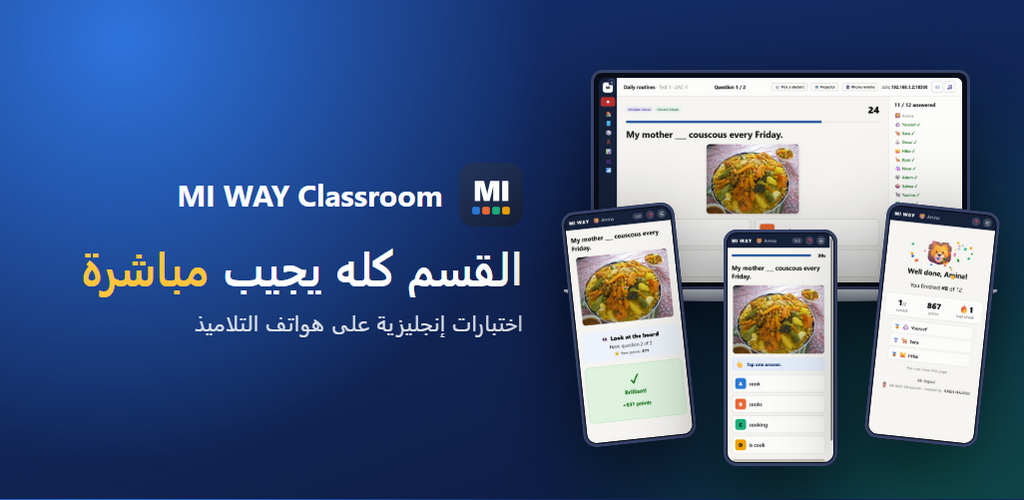
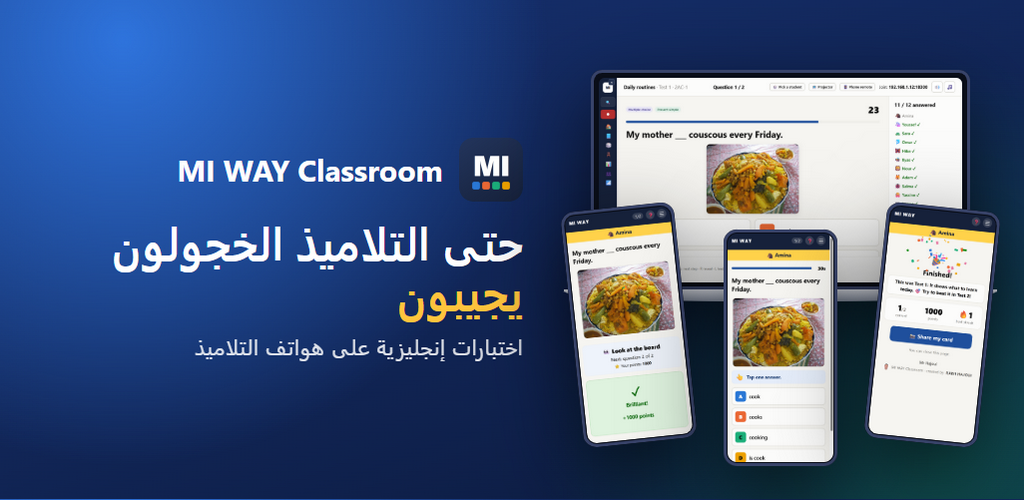
Share pictures and text: new hook 'Even the quiet students answer'

diff --git a/ar/index.html b/ar/index.html
@@ -5,7 +5,7 @@
 <meta name="viewport" content="width=device-width, initial-scale=1">
 <!-- langs: made by scripts/website-langs.js -->
 <title>MI WAY Classroom – اختبارات إنجليزية مباشرة على هواتف التلاميذ بدون إنترنت</title>
-<meta name="description" content="تطبيق مجاني لأساتذة اللغة الإنجليزية. القسم كله يجيب مباشرة على هواتفهم. بدون إنترنت، بدون حسابات، بدون إعلانات. من إعداد أستاذ.">
+<meta name="description" content="تطبيق مجاني لأساتذة اللغة الإنجليزية. حتى التلاميذ الخجولون يجيبون: القسم كله يجيب مباشرة على هواتفهم. بدون إنترنت، بدون حسابات، بدون إعلانات. من إعداد أستاذ.">
 <link rel="canonical" href="https://www.miwayclassroom.com/ar/">
 <link rel="alternate" hreflang="en" href="https://www.miwayclassroom.com/">
 <link rel="alternate" hreflang="fr" href="https://www.miwayclassroom.com/fr/">
@@ -15,14 +15,14 @@
 <meta property="og:type" content="website">
 <meta property="og:site_name" content="MI WAY Classroom">
 <meta property="og:locale" content="ar_MA">
-<meta property="og:title" content="MI WAY Classroom – القسم كله يجيب مباشرة">
+<meta property="og:title" content="MI WAY Classroom – حتى التلاميذ الخجولون يجيبون">
 <meta property="og:description" content="اختبارات إنجليزية مجانية ومباشرة على هواتف التلاميذ. بدون إنترنت. من إعداد أستاذ.">
 <meta property="og:image" content="https://www.miwayclassroom.com/img/og-ar.png">
 <meta property="og:image:width" content="1024">
 <meta property="og:image:height" content="500">
 <meta property="og:url" content="https://www.miwayclassroom.com/ar/">
 <meta name="twitter:card" content="summary_large_image">
-<script type="application/ld+json">{"@context":"https://schema.org","@type":"SoftwareApplication","name":"MI WAY Classroom","url":"https://www.miwayclassroom.com/ar/","inLanguage":"ar","description":"تطبيق مجاني لأساتذة اللغة الإنجليزية. القسم كله يجيب مباشرة على هواتفهم. بدون إنترنت، بدون حسابات، بدون إعلانات. من إعداد أستاذ.","applicationCategory":"EducationalApplication","operatingSystem":"Windows, Android","image":"https://www.miwayclassroom.com/img/og-ar.png","offers":{"@type":"Offer","price":"0","priceCurrency":"USD"},"author":{"@type":"Person","name":"Rabii Hajoui","jobTitle":"English teacher"},"downloadUrl":"https://play.google.com/store/apps/details?id=com.miway.classroom"}</script>
+<script type="application/ld+json">{"@context":"https://schema.org","@type":"SoftwareApplication","name":"MI WAY Classroom","url":"https://www.miwayclassroom.com/ar/","inLanguage":"ar","description":"تطبيق مجاني لأساتذة اللغة الإنجليزية. حتى التلاميذ الخجولون يجيبون: القسم كله يجيب مباشرة على هواتفهم. بدون إنترنت، بدون حسابات، بدون إعلانات. من إعداد أستاذ.","applicationCategory":"EducationalApplication","operatingSystem":"Windows, Android","image":"https://www.miwayclassroom.com/img/og-ar.png","offers":{"@type":"Offer","price":"0","priceCurrency":"USD"},"author":{"@type":"Person","name":"Rabii Hajoui","jobTitle":"English teacher"},"downloadUrl":"https://play.google.com/store/apps/details?id=com.miway.classroom"}</script>
 <!-- /langs -->
 <meta name="referrer" content="strict-origin-when-cross-origin">
 <link rel="icon" href="/img/icon.png">

diff --git a/fr/index.html b/fr/index.html
@@ -5,7 +5,7 @@
 <meta name="viewport" content="width=device-width, initial-scale=1">
 <!-- langs: made by scripts/website-langs.js -->
 <title>MI WAY Classroom – Quiz d'anglais en direct sur les téléphones des élèves, sans internet</title>
-<meta name="description" content="Application gratuite pour les professeurs d'anglais. Toute la classe répond en direct sur son téléphone. Sans internet, sans compte, sans publicité. Créée par un professeur.">
+<meta name="description" content="Application gratuite pour les professeurs d'anglais. Même les élèves timides répondent : toute la classe répond en direct sur son téléphone. Sans internet, sans compte, sans publicité. Créée par un professeur.">
 <link rel="canonical" href="https://www.miwayclassroom.com/fr/">
 <link rel="alternate" hreflang="en" href="https://www.miwayclassroom.com/">
 <link rel="alternate" hreflang="fr" href="https://www.miwayclassroom.com/fr/">
@@ -15,14 +15,14 @@
 <meta property="og:type" content="website">
 <meta property="og:site_name" content="MI WAY Classroom">
 <meta property="og:locale" content="fr_FR">
-<meta property="og:title" content="MI WAY Classroom – Toute la classe répond en direct">
+<meta property="og:title" content="MI WAY Classroom – Même les élèves timides répondent">
 <meta property="og:description" content="Quiz d'anglais gratuits en direct sur les téléphones des élèves. Sans internet. Créée par un professeur.">
 <meta property="og:image" content="https://www.miwayclassroom.com/img/og-fr.png">
 <meta property="og:image:width" content="1024">
 <meta property="og:image:height" content="500">
 <meta property="og:url" content="https://www.miwayclassroom.com/fr/">
 <meta name="twitter:card" content="summary_large_image">
-<script type="application/ld+json">{"@context":"https://schema.org","@type":"SoftwareApplication","name":"MI WAY Classroom","url":"https://www.miwayclassroom.com/fr/","inLanguage":"fr","description":"Application gratuite pour les professeurs d'anglais. Toute la classe répond en direct sur son téléphone. Sans internet, sans compte, sans publicité. Créée par un professeur.","applicationCategory":"EducationalApplication","operatingSystem":"Windows, Android","image":"https://www.miwayclassroom.com/img/og-fr.png","offers":{"@type":"Offer","price":"0","priceCurrency":"USD"},"author":{"@type":"Person","name":"Rabii Hajoui","jobTitle":"English teacher"},"downloadUrl":"https://play.google.com/store/apps/details?id=com.miway.classroom"}</script>
+<script type="application/ld+json">{"@context":"https://schema.org","@type":"SoftwareApplication","name":"MI WAY Classroom","url":"https://www.miwayclassroom.com/fr/","inLanguage":"fr","description":"Application gratuite pour les professeurs d'anglais. Même les élèves timides répondent : toute la classe répond en direct sur son téléphone. Sans internet, sans compte, sans publicité. Créée par un professeur.","applicationCategory":"EducationalApplication","operatingSystem":"Windows, Android","image":"https://www.miwayclassroom.com/img/og-fr.png","offers":{"@type":"Offer","price":"0","priceCurrency":"USD"},"author":{"@type":"Person","name":"Rabii Hajoui","jobTitle":"English teacher"},"downloadUrl":"https://play.google.com/store/apps/details?id=com.miway.classroom"}</script>
 <!-- /langs -->
 <meta name="referrer" content="strict-origin-when-cross-origin">
 <link rel="icon" href="/img/icon.png">

diff --git a/tr/index.html b/tr/index.html
@@ -5,7 +5,7 @@
 <meta name="viewport" content="width=device-width, initial-scale=1">
 <!-- langs: made by scripts/website-langs.js -->
 <title>MI WAY Classroom – Öğrenci telefonlarında canlı İngilizce sınavlar, internetsiz</title>
-<meta name="description" content="İngilizce öğretmenleri için ücretsiz uygulama. Tüm sınıf kendi telefonundan canlı cevap verir. İnternet yok, hesap yok, reklam yok. Bir öğretmen yaptı.">
+<meta name="description" content="İngilizce öğretmenleri için ücretsiz uygulama. Sessiz öğrenciler bile cevap verir: tüm sınıf kendi telefonundan canlı cevap verir. İnternet yok, hesap yok, reklam yok. Bir öğretmen yaptı.">
 <link rel="canonical" href="https://www.miwayclassroom.com/tr/">
 <link rel="alternate" hreflang="en" href="https://www.miwayclassroom.com/">
 <link rel="alternate" hreflang="fr" href="https://www.miwayclassroom.com/fr/">
@@ -15,14 +15,14 @@
 <meta property="og:type" content="website">
 <meta property="og:site_name" content="MI WAY Classroom">
 <meta property="og:locale" content="tr_TR">
-<meta property="og:title" content="MI WAY Classroom – Tüm sınıf canlı cevap veriyor">
+<meta property="og:title" content="MI WAY Classroom – Sessiz öğrenciler bile cevap veriyor">
 <meta property="og:description" content="Öğrenci telefonlarında ücretsiz canlı İngilizce sınavlar. İnternet gerekmez. Bir öğretmen yaptı.">
 <meta property="og:image" content="https://www.miwayclassroom.com/img/og.png">
 <meta property="og:image:width" content="1024">
 <meta property="og:image:height" content="500">
 <meta property="og:url" content="https://www.miwayclassroom.com/tr/">
 <meta name="twitter:card" content="summary_large_image">
-<script type="application/ld+json">{"@context":"https://schema.org","@type":"SoftwareApplication","name":"MI WAY Classroom","url":"https://www.miwayclassroom.com/tr/","inLanguage":"tr","description":"İngilizce öğretmenleri için ücretsiz uygulama. Tüm sınıf kendi telefonundan canlı cevap verir. İnternet yok, hesap yok, reklam yok. Bir öğretmen yaptı.","applicationCategory":"EducationalApplication","operatingSystem":"Windows, Android","image":"https://www.miwayclassroom.com/img/og.png","offers":{"@type":"Offer","price":"0","priceCurrency":"USD"},"author":{"@type":"Person","name":"Rabii Hajoui","jobTitle":"English teacher"},"downloadUrl":"https://play.google.com/store/apps/details?id=com.miway.classroom"}</script>
+<script type="application/ld+json">{"@context":"https://schema.org","@type":"SoftwareApplication","name":"MI WAY Classroom","url":"https://www.miwayclassroom.com/tr/","inLanguage":"tr","description":"İngilizce öğretmenleri için ücretsiz uygulama. Sessiz öğrenciler bile cevap verir: tüm sınıf kendi telefonundan canlı cevap verir. İnternet yok, hesap yok, reklam yok. Bir öğretmen yaptı.","applicationCategory":"EducationalApplication","operatingSystem":"Windows, Android","image":"https://www.miwayclassroom.com/img/og.png","offers":{"@type":"Offer","price":"0","priceCurrency":"USD"},"author":{"@type":"Person","name":"Rabii Hajoui","jobTitle":"English teacher"},"downloadUrl":"https://play.google.com/store/apps/details?id=com.miway.classroom"}</script>
 <!-- /langs -->
 <meta name="referrer" content="strict-origin-when-cross-origin">
 <link rel="icon" href="/img/icon.png">

diff --git a/index.html b/index.html
@@ -5,7 +5,7 @@
 <meta name="viewport" content="width=device-width, initial-scale=1">
 <!-- langs: made by scripts/website-langs.js -->
 <title>MI WAY Classroom – Live English quizzes on students' phones, no internet</title>
-<meta name="description" content="Free app for English teachers. Your whole class answers live on their own phones. No internet, no accounts, no ads. Made by a teacher.">
+<meta name="description" content="Even the quiet students answer. Free app for English teachers: the whole class answers live on their own phones. No internet, no accounts, no ads. Made by a teacher.">
 <link rel="canonical" href="https://www.miwayclassroom.com/">
 <link rel="alternate" hreflang="en" href="https://www.miwayclassroom.com/">
 <link rel="alternate" hreflang="fr" href="https://www.miwayclassroom.com/fr/">
@@ -15,14 +15,14 @@
 <meta property="og:type" content="website">
 <meta property="og:site_name" content="MI WAY Classroom">
 <meta property="og:locale" content="en_US">
-<meta property="og:title" content="MI WAY Classroom – Your whole class answers live">
-<meta property="og:description" content="Free live English quizzes on students' phones. No internet needed. Made by a teacher.">
+<meta property="og:title" content="MI WAY Classroom – Even the quiet students answer">
+<meta property="og:description" content="Even the quiet students answer. Free live English quizzes on students' phones. No internet needed. Made by a teacher.">
 <meta property="og:image" content="https://www.miwayclassroom.com/img/og.png">
 <meta property="og:image:width" content="1024">
 <meta property="og:image:height" content="500">
 <meta property="og:url" content="https://www.miwayclassroom.com/">
 <meta name="twitter:card" content="summary_large_image">
-<script type="application/ld+json">{"@context":"https://schema.org","@type":"SoftwareApplication","name":"MI WAY Classroom","url":"https://www.miwayclassroom.com/","inLanguage":"en","description":"Free app for English teachers. Your whole class answers live on their own phones. No internet, no accounts, no ads. Made by a teacher.","applicationCategory":"EducationalApplication","operatingSystem":"Windows, Android","image":"https://www.miwayclassroom.com/img/og.png","offers":{"@type":"Offer","price":"0","priceCurrency":"USD"},"author":{"@type":"Person","name":"Rabii Hajoui","jobTitle":"English teacher"},"downloadUrl":"https://play.google.com/store/apps/details?id=com.miway.classroom"}</script>
+<script type="application/ld+json">{"@context":"https://schema.org","@type":"SoftwareApplication","name":"MI WAY Classroom","url":"https://www.miwayclassroom.com/","inLanguage":"en","description":"Even the quiet students answer. Free app for English teachers: the whole class answers live on their own phones. No internet, no accounts, no ads. Made by a teacher.","applicationCategory":"EducationalApplication","operatingSystem":"Windows, Android","image":"https://www.miwayclassroom.com/img/og.png","offers":{"@type":"Offer","price":"0","priceCurrency":"USD"},"author":{"@type":"Person","name":"Rabii Hajoui","jobTitle":"English teacher"},"downloadUrl":"https://play.google.com/store/apps/details?id=com.miway.classroom"}</script>
 <!-- /langs -->
 <meta name="referrer" content="strict-origin-when-cross-origin">
 <link rel="icon" href="/img/icon.png">
